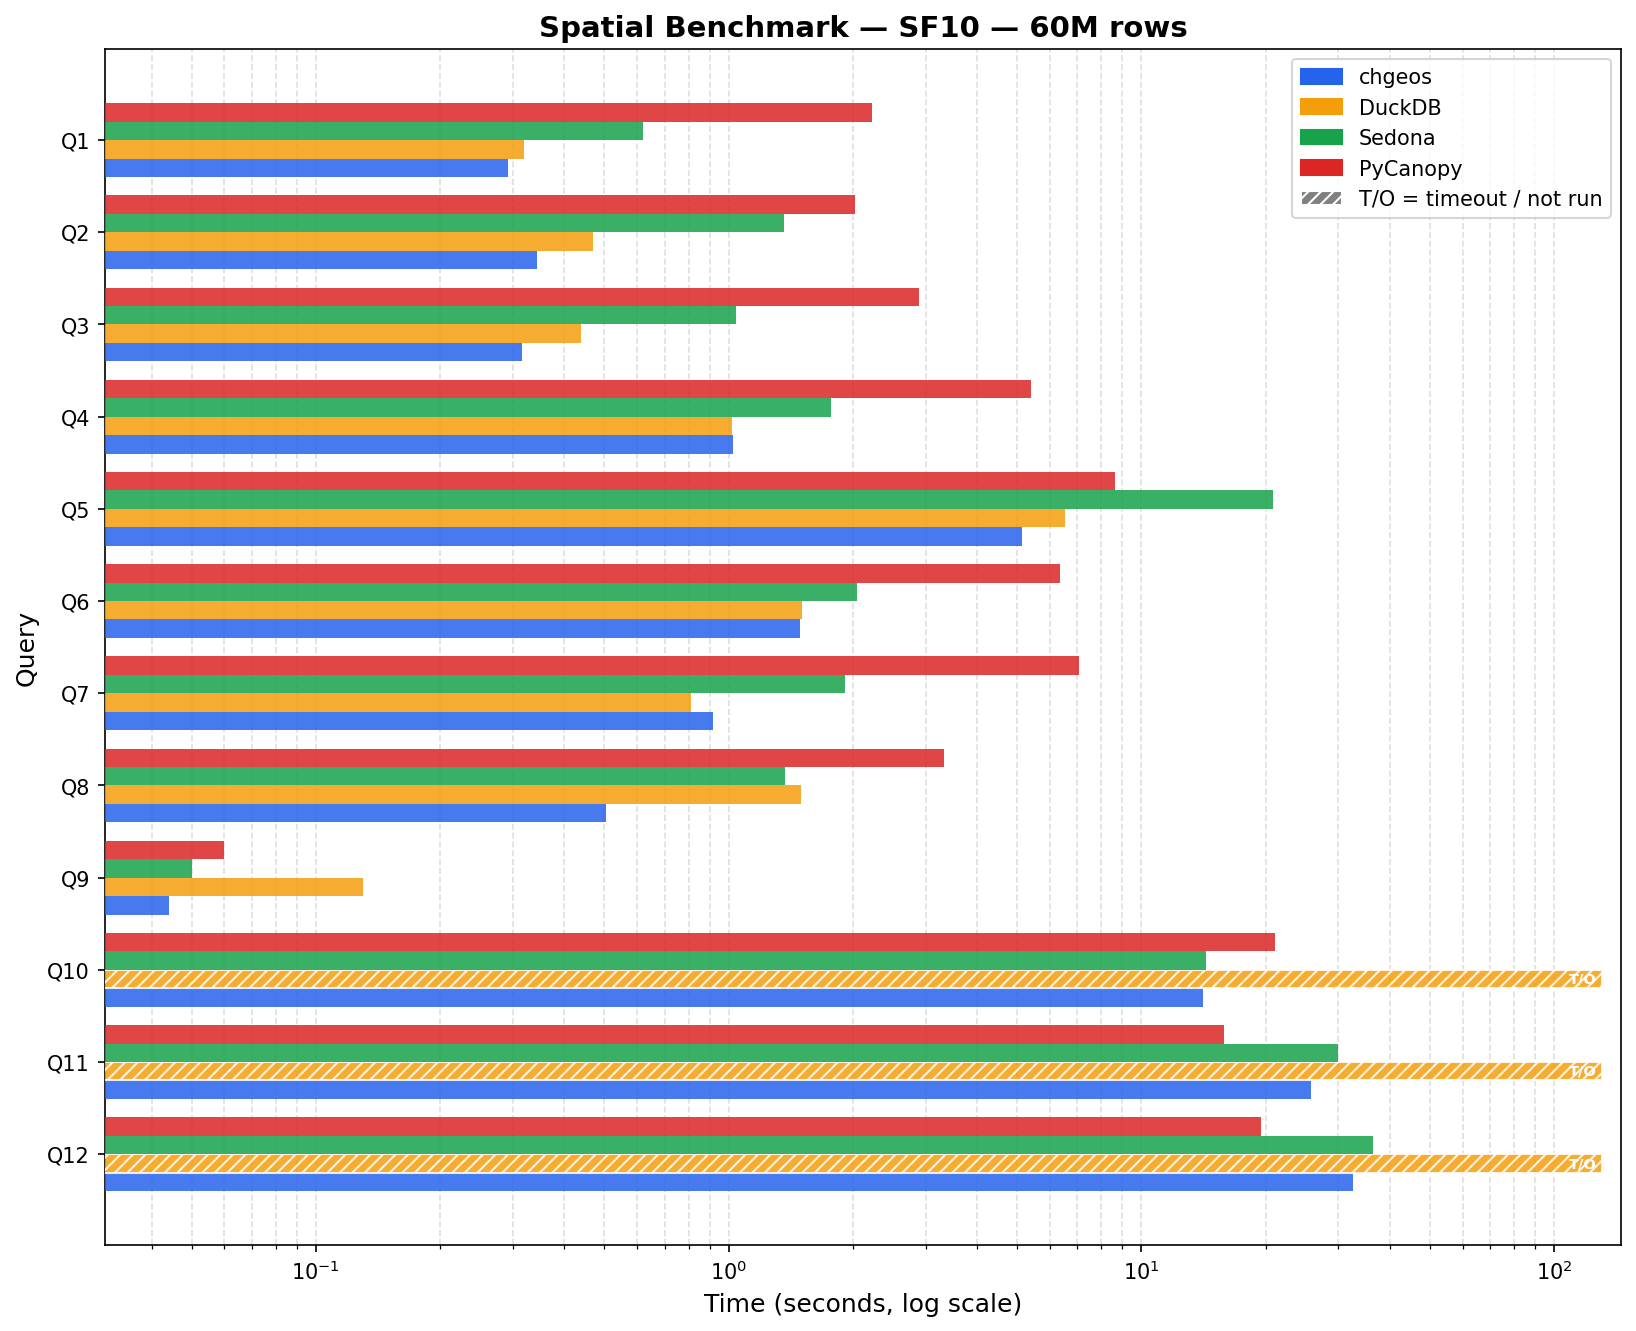
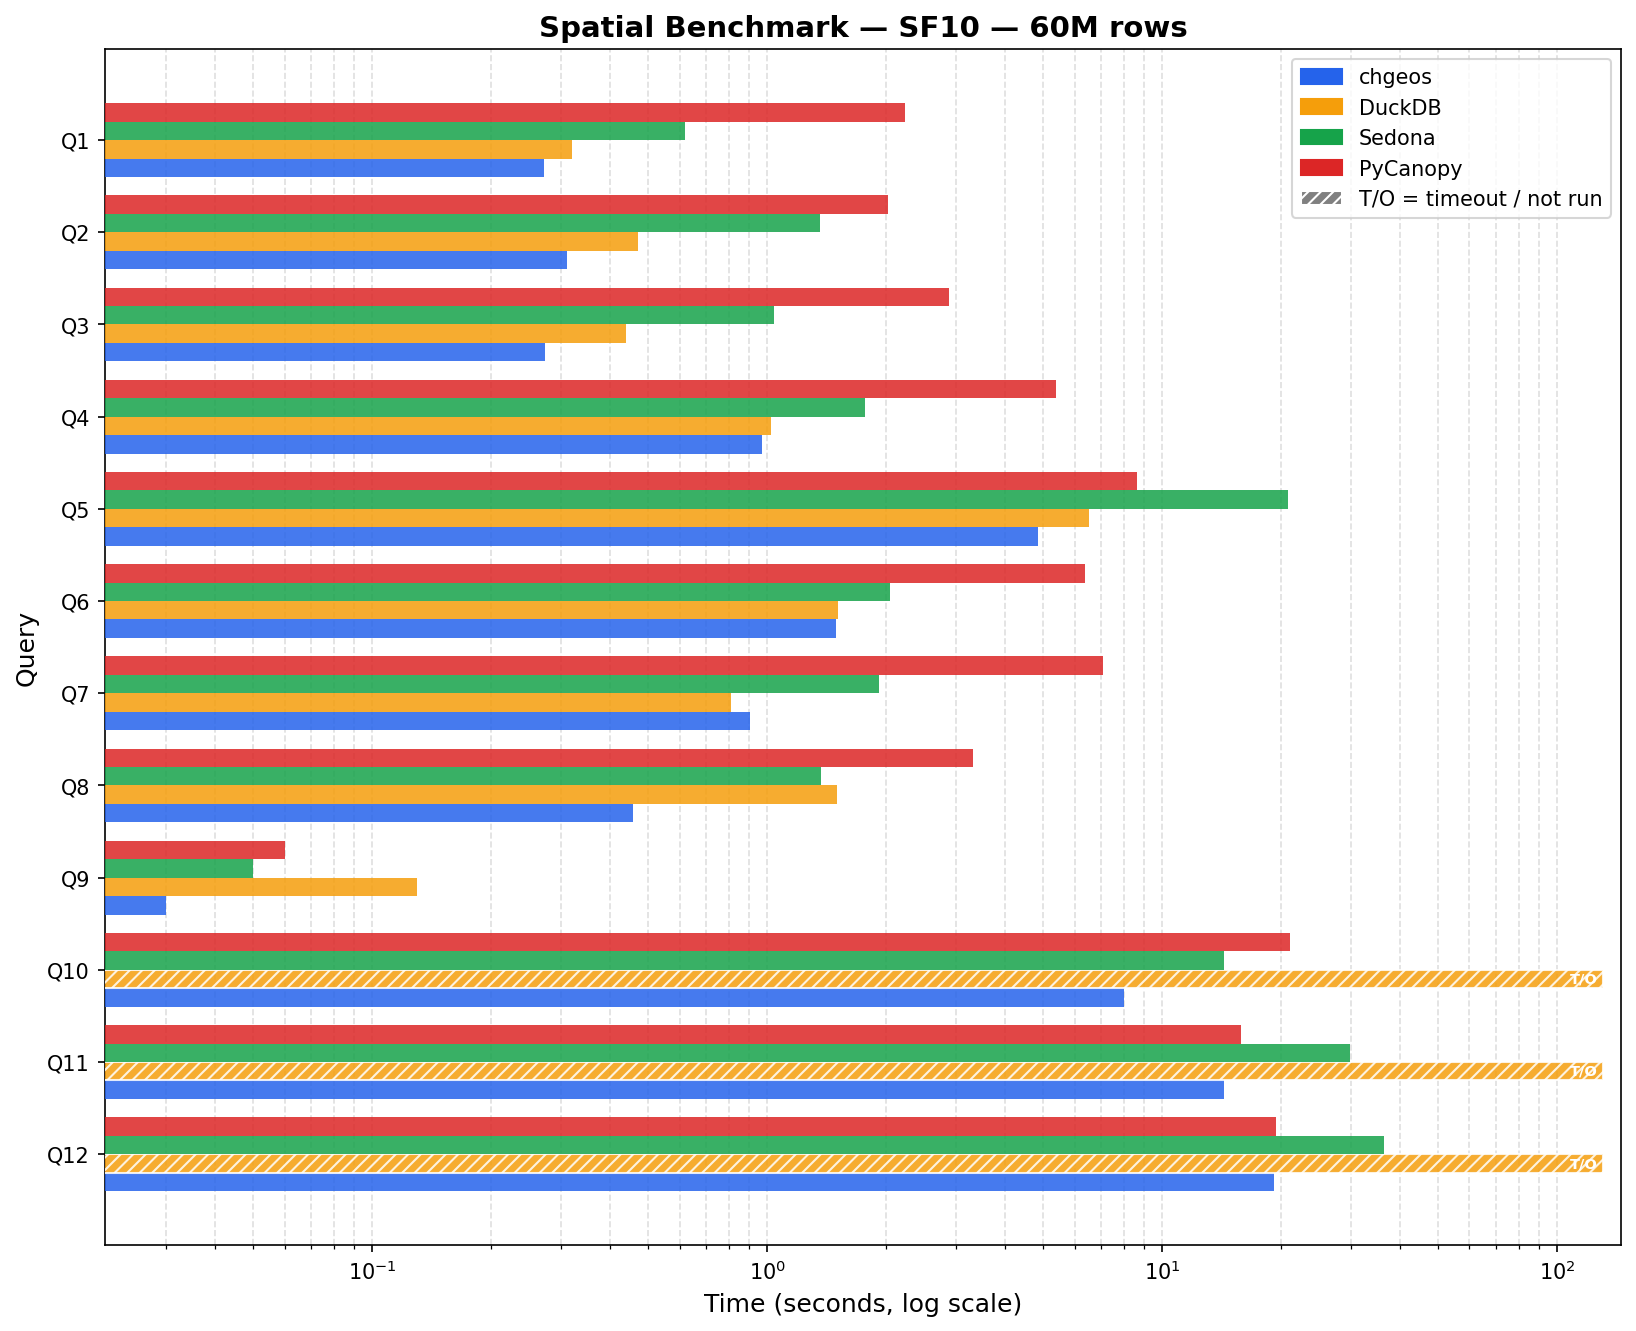
Re-measure chgeos after spatial join and kNN work
SF1 and SF10 at CH d2d24230309 / chgeos f1fc30a (3 runs, average;
machine not idle, load ~17). All 12 queries pass the spatialbench
answers at both scales. Q10-Q12 move from PyCanopy to chgeos except
SF1 Q11; SF10 Q12 is a tie. Tallies: SF1 10 wins + 1 tie, SF10 9 wins
+ 2 ties. Competitor columns unchanged from the 2026-10-04/05 idle run.

Claude-Session: https://claude.ai/code/session_01JZhEQgwKLv4Drk38uDWLaY

diff --git a/BENCHMARK.md b/BENCHMARK.md
@@ -6,12 +6,12 @@ Apache Sedona (SedonaDB) and PyCanopy on the spatial benchmark suite.
 **Hardware:** AMD Ryzen 9 5900X, 128 GB RAM  
 **Dataset:** synthetic taxi trip data from https://github.com/apache/sedona-spatialbench — SF1 = 6M trips, SF10 = 60M trips  
 **Timeout:** 120 s (all engines)  
-**chgeos version:** 2026-10-04 (CH `d0c96a2e6aa`)  
+**chgeos version:** 2026-10-05 (CH `d2d24230309`, chgeos `f1fc30a`)  
 **DuckDB version:** 1.5.6  
 **SedonaDB version:** 0.4.1  
 **PyCanopy version:** 0.4.1 (Polars 1.44.2)  
 **Competitors measured:** 2026-10-04/05, same box and split Parquet files, via sedona-spatialbench `run_benchmark.py`, straight after the chgeos runs on an otherwise idle machine  
-**Runs:** 5 per query (average reported)  
+**Runs:** chgeos 3 per query, competitors 5 per query (average reported)  
 **Winner:** fastest engine; margins under 5% are reported as a tie
 
 ---
@@ -22,26 +22,25 @@ Apache Sedona (SedonaDB) and PyCanopy on the spatial benchmark suite.
 |-------|------------------------------------|----------|----------|---------|----------|----------|
 | Q1    | Point-in-radius filter             | 0.05 s   | 0.12 s   | 0.15 s  | 0.28 s   | chgeos   |
 | Q2    | Count trips in county polygon      | 0.06 s   | 0.18 s   | 0.68 s  | 0.23 s   | chgeos   |
-| Q3    | Monthly stats in bbox+buffer       | 0.04 s   | 0.17 s   | 0.28 s  | 0.29 s   | chgeos   |
-| Q4    | Zone distribution (top-1000 tips)  | 0.68 s   | 0.66 s   | 0.72 s  | 1.48 s   | Tie      |
-| Q5    | Convex hull area per customer/month| 0.39 s   | 0.67 s   | 2.63 s  | 0.74 s   | chgeos   |
-| Q6    | Zone stats for bbox-intersect zones| 0.68 s   | 0.83 s   | 0.70 s  | 1.50 s   | Tie      |
-| Q7    | Detour ratio (all trips)           | 0.14 s   | 0.27 s   | 0.53 s  | 0.53 s   | chgeos   |
+| Q3    | Monthly stats in bbox+buffer       | 0.06 s   | 0.17 s   | 0.28 s  | 0.29 s   | chgeos   |
+| Q4    | Zone distribution (top-1000 tips)  | 0.66 s   | 0.66 s   | 0.72 s  | 1.48 s   | Tie      |
+| Q5    | Convex hull area per customer/month| 0.38 s   | 0.67 s   | 2.63 s  | 0.74 s   | chgeos   |
+| Q6    | Zone stats for bbox-intersect zones| 0.63 s   | 0.83 s   | 0.70 s  | 1.50 s   | chgeos   |
+| Q7    | Detour ratio (all trips)           | 0.13 s   | 0.27 s   | 0.53 s  | 0.53 s   | chgeos   |
 | Q8    | Nearby pickups per building        | 0.04 s   | 0.45 s   | 0.16 s  | 0.27 s   | chgeos   |
 | Q9    | Building conflation via IoU        | 0.02 s   | 0.03 s   | 0.03 s  | 0.03 s   | chgeos   |
-| Q10   | Zone avg duration/distance         | 2.46 s   | 103.21 s | 2.44 s  | 2.20 s   | PyCanopy |
-| Q11   | Cross-zone trip count              | 4.25 s   | TIMEOUT  | 3.99 s  | 2.47 s   | PyCanopy |
-| Q12   | 5 nearest buildings per trip (kNN) | 2.25 s   | TIMEOUT  | 3.19 s  | 1.74 s   | PyCanopy |
+| Q10   | Zone avg duration/distance         | 1.81 s   | 103.21 s | 2.44 s  | 2.20 s   | chgeos   |
+| Q11   | Cross-zone trip count              | 3.40 s   | TIMEOUT  | 3.99 s  | 2.47 s   | PyCanopy |
+| Q12   | 5 nearest buildings per trip (kNN) | 1.61 s   | TIMEOUT  | 3.19 s  | 1.74 s   | chgeos   |
 
-**SF1 wins — chgeos: 7, DuckDB: 0, Sedona: 0, PyCanopy: 3, Ties: 2**
+**SF1 wins — chgeos: 10, DuckDB: 0, Sedona: 0, PyCanopy: 1, Ties: 1**
 
 Q4 is dominated by reading `zone.parquet`, which is the same file at every scale factor, so SF1
-and SF10 Q4 land close together (0.68 s / 1.02 s) and all three fast engines tie on it.
+and SF10 Q4 land close together (0.66 s / 0.97 s).
 
-SF1 Q10–Q12 go to PyCanopy (2.20 / 2.47 / 1.74 s against chgeos 2.46 / 4.25 / 2.25 s); SedonaDB
-is also ahead of chgeos on Q10 and Q11 (2.44 / 3.99 s). These three queries are the spatial joins
-and the kNN, where chgeos does its work in `SpatialRTreeJoin` and the WASM `st_knn`; see the Q10,
-Q11 and Q12 notes below.
+After the 2026-10-05 `SpatialRTreeJoin` and `st_knn` work chgeos takes SF1 Q10 and Q12
+(1.81 / 1.61 s against PyCanopy 2.20 / 1.74 s). SF1 Q11 is the one query PyCanopy still wins,
+2.47 s against chgeos 3.40 s; see the Q10, Q11 and Q12 notes below.
 
 **The SF1 tally understates DuckDB, and the cause is our Parquet files.** `sf1/trip.parquet`
 holds 6M rows in only 4 row groups. DuckDB caps a scan pipeline's thread count at the number
@@ -66,29 +65,45 @@ explained by this — see the Q7 note below.
 
 | Query | Description                        | chgeos    | DuckDB   | Sedona   | PyCanopy | Winner   |
 |-------|------------------------------------|-----------|----------|----------|----------|----------|
-| Q1    | Point-in-radius filter             | 0.29 s    | 0.32 s   | 0.62 s   | 2.23 s   | chgeos   |
-| Q2    | Count trips in county polygon      | 0.34 s    | 0.47 s   | 1.36 s   | 2.02 s   | chgeos   |
-| Q3    | Monthly stats in bbox+buffer       | 0.32 s    | 0.44 s   | 1.04 s   | 2.89 s   | chgeos   |
-| Q4    | Zone distribution (top-1000 tips)  | 1.02 s    | 1.02 s   | 1.77 s   | 5.39 s   | Tie      |
-| Q5    | Convex hull area per customer/month| 5.14 s    | 6.54 s   | 20.87 s  | 8.63 s   | chgeos   |
-| Q6    | Zone stats for bbox-intersect zones| 1.49 s    | 1.51 s   | 2.05 s   | 6.37 s   | Tie      |
-| Q7    | Detour ratio (all trips)           | 0.92 s    | 0.81 s   | 1.92 s   | 7.07 s   | DuckDB   |
-| Q8    | Nearby pickups per building        | 0.51 s    | 1.50 s   | 1.37 s   | 3.32 s   | chgeos   |
-| Q9    | Building conflation via IoU        | 0.04 s    | 0.13 s   | 0.05 s   | 0.06 s   | chgeos   |
-| Q10   | Zone avg duration/distance         | 14.10 s   | TIMEOUT  | 14.32 s  | 21.09 s  | Tie      |
-| Q11   | Cross-zone trip count              | 25.72 s   | TIMEOUT  | 29.98 s  | 15.86 s  | PyCanopy |
-| Q12   | 5 nearest buildings per trip (kNN) | 32.54 s   | TIMEOUT  | 36.37 s  | 19.45 s  | PyCanopy |
+| Q1    | Point-in-radius filter             | 0.27 s    | 0.32 s   | 0.62 s   | 2.23 s   | chgeos   |
+| Q2    | Count trips in county polygon      | 0.31 s    | 0.47 s   | 1.36 s   | 2.02 s   | chgeos   |
+| Q3    | Monthly stats in bbox+buffer       | 0.27 s    | 0.44 s   | 1.04 s   | 2.89 s   | chgeos   |
+| Q4    | Zone distribution (top-1000 tips)  | 0.97 s    | 1.02 s   | 1.77 s   | 5.39 s   | chgeos   |
+| Q5    | Convex hull area per customer/month| 4.86 s    | 6.54 s   | 20.87 s  | 8.63 s   | chgeos   |
+| Q6    | Zone stats for bbox-intersect zones| 1.50 s    | 1.51 s   | 2.05 s   | 6.37 s   | Tie      |
+| Q7    | Detour ratio (all trips)           | 0.91 s    | 0.81 s   | 1.92 s   | 7.07 s   | DuckDB   |
+| Q8    | Nearby pickups per building        | 0.46 s    | 1.50 s   | 1.37 s   | 3.32 s   | chgeos   |
+| Q9    | Building conflation via IoU        | 0.03 s    | 0.13 s   | 0.05 s   | 0.06 s   | chgeos   |
+| Q10   | Zone avg duration/distance         | 8.00 s    | TIMEOUT  | 14.32 s  | 21.09 s  | chgeos   |
+| Q11   | Cross-zone trip count              | 14.32 s   | TIMEOUT  | 29.98 s  | 15.86 s  | chgeos   |
+| Q12   | 5 nearest buildings per trip (kNN) | 19.16 s   | TIMEOUT  | 36.37 s  | 19.45 s  | Tie      |
 
-**SF10 wins — chgeos: 6, DuckDB: 1, Sedona: 0, PyCanopy: 2, Ties: 3**
+**SF10 wins — chgeos: 9, DuckDB: 1, Sedona: 0, PyCanopy: 0, Ties: 2**
 
-chgeos SF10 was re-measured on 2026-10-04 at CH `d0c96a2e6aa` (COLUMNAR_V1 wire,
-5 runs, averages, idle machine, load average ~1 at start). An earlier run the same day at
+chgeos SF1 and SF10 were re-measured on 2026-10-05 at CH `d2d24230309` (COLUMNAR_V1 wire,
+3 runs, averages; the machine was not idle, load average ~17 at start, so chgeos is if anything
+understated against the idle competitor runs). Both scales pass the spatialbench reference
+answers on all 12 queries. The previous chgeos run, 2026-10-04 at CH `d0c96a2e6aa`, was on an idle machine
+(5 runs, load average ~1 at start). An earlier run the same day at
 load ~19 was 4–10% slower on Q1–Q4, Q6, Q7 and Q11; a same-session A/B confirmed the
 difference was machine load, not code. DuckDB, SedonaDB and PyCanopy were all re-measured the same day on the same split files
 (5 runs, averages, 120 s timeout) straight after the chgeos runs, also on an idle machine. An
 earlier competitor run on 2026-10-04 on a busier machine had PyCanopy roughly 2× slower on
-Q10–Q12; with every engine measured on an idle machine, PyCanopy takes SF10 Q11 and Q12 and
-SedonaDB ties Q10.
+Q10–Q12. With the 2026-10-05 chgeos numbers chgeos takes SF10 Q10 and Q11 and ties PyCanopy
+on Q12 (19.16 s against 19.45 s).
+
+Q10–Q12 since 2026-10-04 (SF10: Q10 14.1 → 8.0 s, Q11 25.7 → 14.3 s, Q12 32.5 → 19.2 s):
+- `SpatialRTreeJoin` replaces the boost STR R-tree with a static Hilbert-packed R-tree (one
+  32-bit-key radix sort per sub-tree, flat node arrays, leaves stored as row position plus point
+  coordinates when the build side is all points), built straight from the per-block entry
+  chunks; the 60M-trip build went from 2.4 s to 1.3 s per join;
+- predicate batches of one heavy probe row, and the slices of large candidate groups, run on a
+  shared pool, and a probe recruits helpers once most other probe streams have finished, which
+  removed the single-thread tail at the end of each join;
+- candidate and output columns are gathered column by column with prefetching instead of a
+  row-major `insertFrom` over random right-side rows;
+- `st_knn` keeps the index for a constant candidate array across calls and refines candidates in
+  centroid-distance order with an early exit.
 
 Q10 and Q11 got 2× faster since 2026-10-03 (Q10 30.0 → 14.1 s, Q11 45.6 → 25.7 s), all from
 host-side work in `SpatialRTreeJoin`, not WASM:
@@ -200,10 +215,9 @@ predicate, cutting candidate pairs dramatically. All engines land at or below 0.
 resolution of these measurements; chgeos is 0.02 s / 0.04 s against SedonaDB 0.03 s / 0.05 s
 and PyCanopy 0.03 s / 0.06 s.
 
-**Q10:** at SF10 chgeos 14.1 s and SedonaDB 14.3 s tie, PyCanopy is 21.1 s and DuckDB times
-out. At SF1 PyCanopy wins, 2.20 s against SedonaDB 2.44 s and chgeos 2.46 s. The remaining
-cost is the 60M-trip R-tree build (~5 s) plus a probe tail: a few zone blocks with millions of
-candidate trips each run longer than the rest on one thread.
+**Q10:** chgeos wins at both scales, 1.81 s / 8.00 s against PyCanopy 2.20 s / 21.1 s and
+SedonaDB 2.44 s / 14.3 s; DuckDB times out at SF10. The former single-thread probe tail (a few
+zones with 4–8M candidate trips each) now runs on the shared pool.
 
 **Q11 (cross-zone trips):** chgeos runs the plan PyCanopy hand-codes in Polars
 (`bench/spatial_bench/queries/q11.py` in the PyCanopy repo): resolve each trip's pickup zone and
@@ -211,7 +225,8 @@ dropoff zone with two independent spatial joins, then match the two results on `
 The spatialbench SQL text instead chains the dropoff join onto the pickup join's output; the
 answer is identical (verified against the reference at SF1 and SF10). With the chained text
 chgeos measured ~6.0 s at SF1 (a tie with PyCanopy) and 26.9 s at SF10; with the two-join
-plan it is 4.25 s and 25.7 s. PyCanopy is faster at both scales, 2.47 s / 15.9 s, and SedonaDB
+plan it was 4.25 s and 25.7 s on 2026-10-04 and is 3.40 s and 14.3 s now. PyCanopy (2.47 s / 15.9 s)
+still wins SF1 and loses SF10, and SedonaDB
 is 3.99 s / 30.0 s. DuckDB runs the chained SQL and times out at both scales.
 
 **Q12 (kNN):** WASM `st_knn` uses a static 2-D centroid k-d tree for candidate selection,
@@ -219,6 +234,6 @@ then refines the surviving candidates to an exact point-to-geometry distance. Th
 alone reports centroid distance, which is not what `ST_Distance` means — before the
 refinement landed, Q12 disagreed with the reference answers. Refinement reads coordinates
 flattened once at index build, so it needs no GEOS parse per row, and Q12 got
-*faster*: 10.9 s → 2.0 s at SF1, 103.8 s → 27.3 s at SF10. chgeos is now 2.25 s / 32.5 s;
-PyCanopy leads at both scales with 1.74 s / 19.5 s, SedonaDB is 3.19 s / 36.4 s and DuckDB
-times out at both.
+*faster*: 10.9 s → 2.0 s at SF1, 103.8 s → 27.3 s at SF10. With the cached index and
+distance-ordered refinement chgeos is now 1.61 s / 19.2 s against PyCanopy 1.74 s / 19.5 s (a
+win at SF1, a tie at SF10); SedonaDB is 3.19 s / 36.4 s and DuckDB times out at both.

diff --git a/README.md b/README.md
@@ -16,11 +16,10 @@ Having said that, I'm not saying it will never be useful.
 ## Status (2026-10-05)
 
 **Mostly done in its current scope.** On the [SpatialBench](https://github.com/apache/sedona-spatialbench)
-suite, with every engine measured on an idle machine, chgeos is the fastest engine on 7 of 12
-queries at SF1 (two ties) and 6 of 12 at SF10 (three ties), against DuckDB 1.5.6, SedonaDB 0.4.1
-and PyCanopy 0.4.1. It wins every scan, filter and aggregation query except SF10 Q7, which
-DuckDB takes and which is bound by ClickHouse's Parquet reader. The losses are the heavy
-spatial joins and the kNN: PyCanopy takes Q10–Q12 at SF1 and Q11–Q12 at SF10. See
+suite chgeos is the fastest engine on 10 of 12 queries at SF1 (one tie) and 9 of 12 at SF10
+(two ties), against DuckDB 1.5.6, SedonaDB 0.4.1 and PyCanopy 0.4.1. The two losses are SF10 Q7,
+which DuckDB takes and which is bound by ClickHouse's Parquet reader, and SF1 Q11 (cross-zone
+trips), which PyCanopy takes. See
 [BENCHMARK.md](BENCHMARK.md).
 
 What is left is not in this repository:
